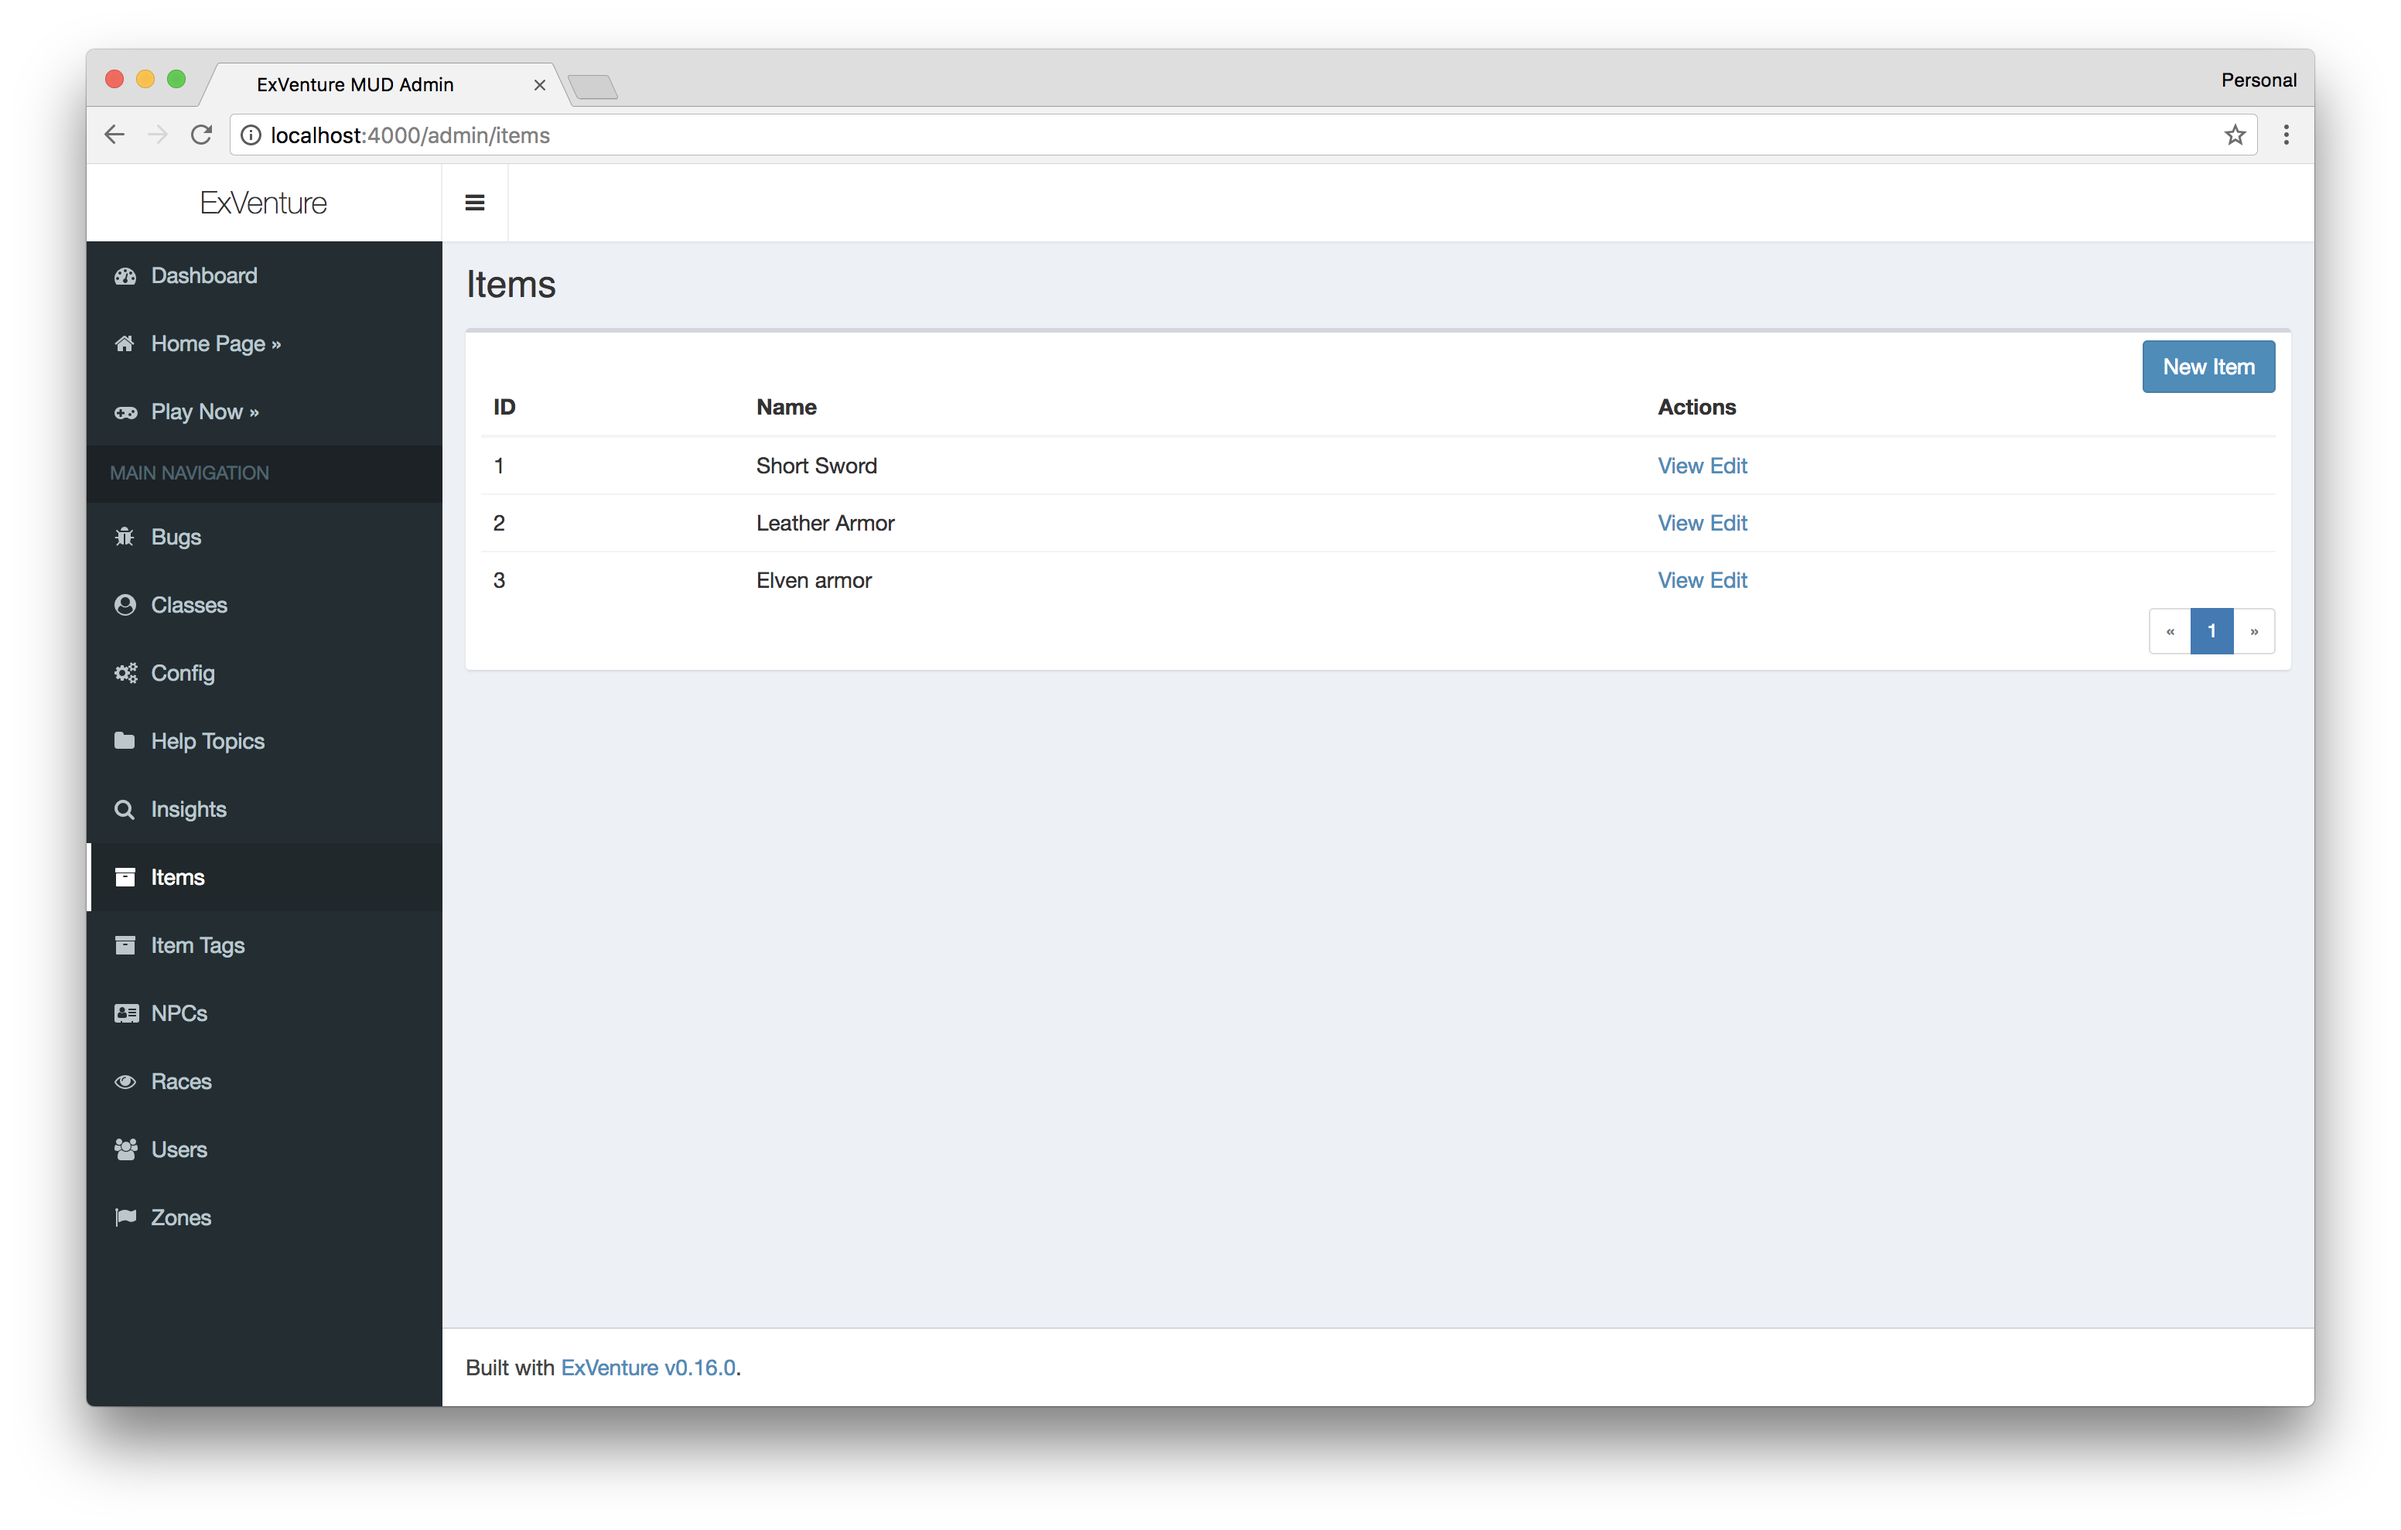
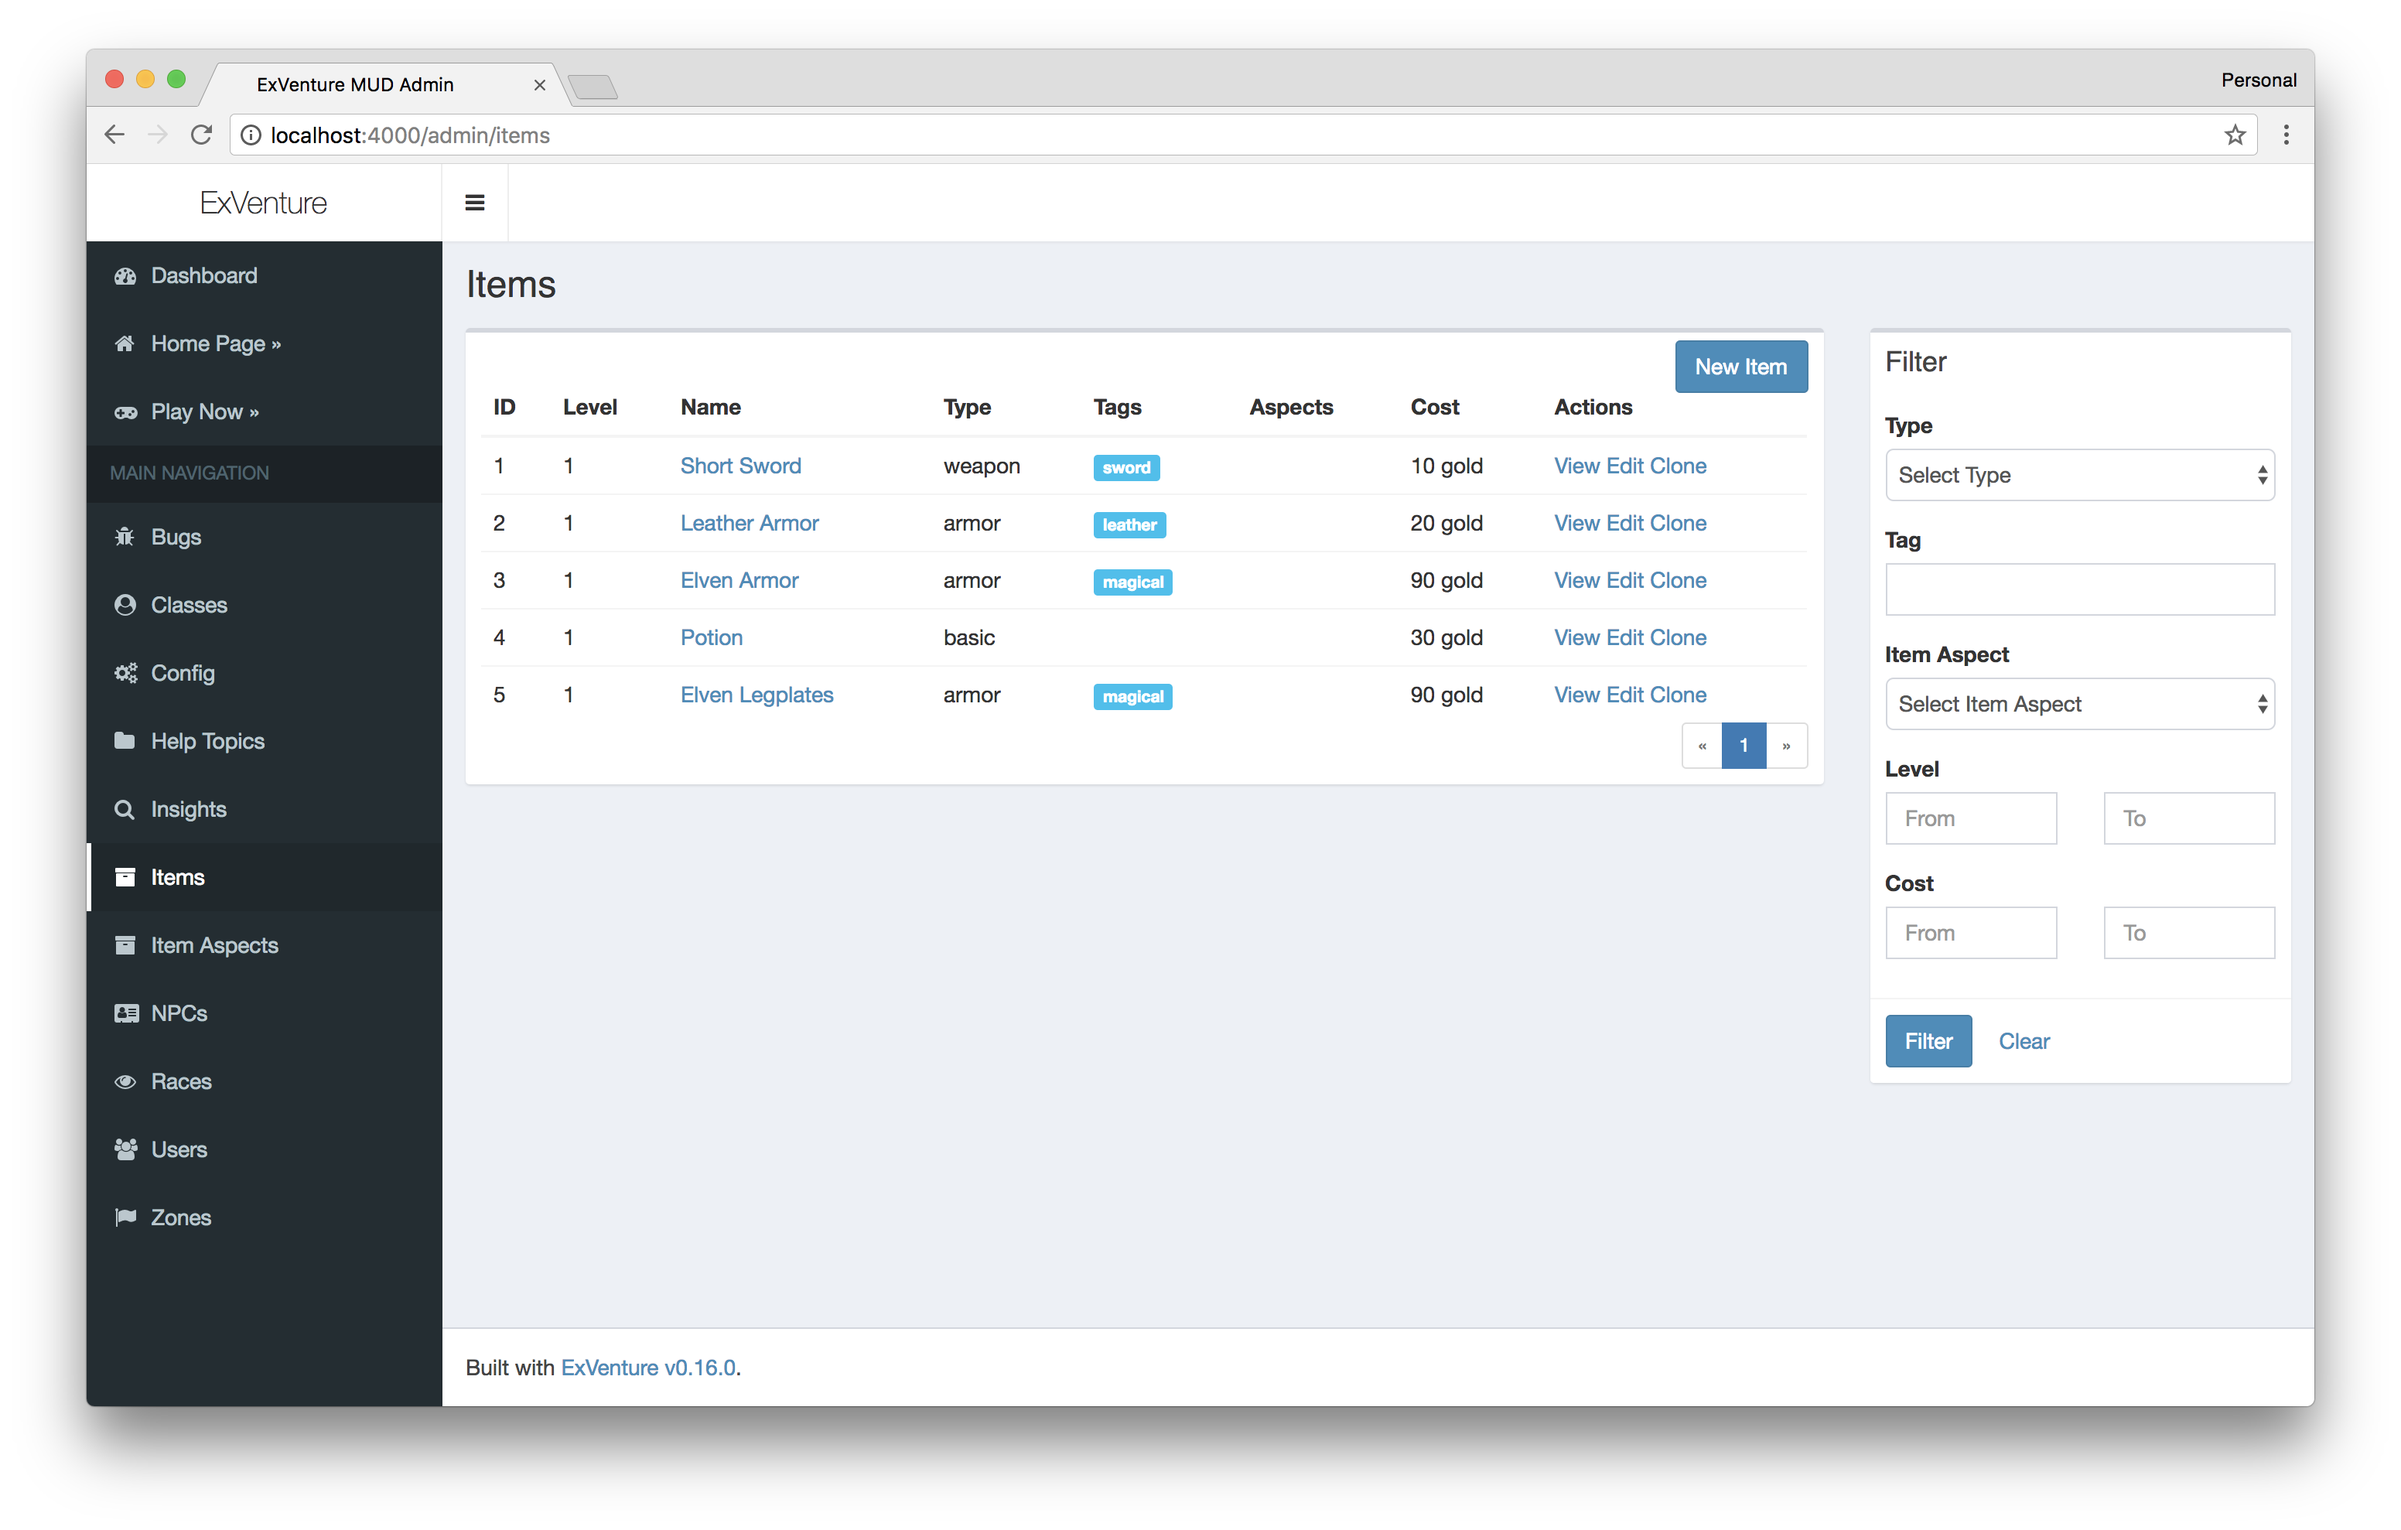
Update item docs
Tag -> Aspect

diff --git a/docs/admin/items.md b/docs/admin/items.md
@@ -26,25 +26,25 @@ You can edit the item by clicking `Edit` in the attribute table. Items will imme
 
 Items can be quickly created by Item Aspects. These are common snippets of stats and effects that are added to items and compiled into the final item stats the game will use.
 
-![Item Aspects Index](/images/admin-item-tag-index.png)
+![Item Aspects Index](/images/admin-item-aspect-index.png)
 
 ### New Item Aspect
 
 Click `New Item Aspect` from the index listing. The information is similar to what the items new page asks for.
 
-![Item Aspects New](/images/admin-item-tag-new.png)
+![Item Aspects New](/images/admin-item-aspect-new.png)
 
 After saving you'll be redirected to the details page for an item aspect.
 
-![Item Aspects Show](/images/admin-item-tag-show.png)
+![Item Aspects Show](/images/admin-item-aspect-show.png)
 
 ### Add an Item Aspect to an Item
 
 From the item detail page click `Add Tag`.
 
-![Adding an item aspect](/images/admin-items-add-tag.png)
+![Adding an item aspect](/images/admin-items-add-aspect.png)
 
-After selecting the tag to add, you can see what the compiled item looks like. All changes will be made live to the game immediately.
+After selecting the aspect to add, you can see what the compiled item looks like. All changes will be made live to the game immediately.
 
 ![Compiled item](/images/admin-items-compiled.png)
 
